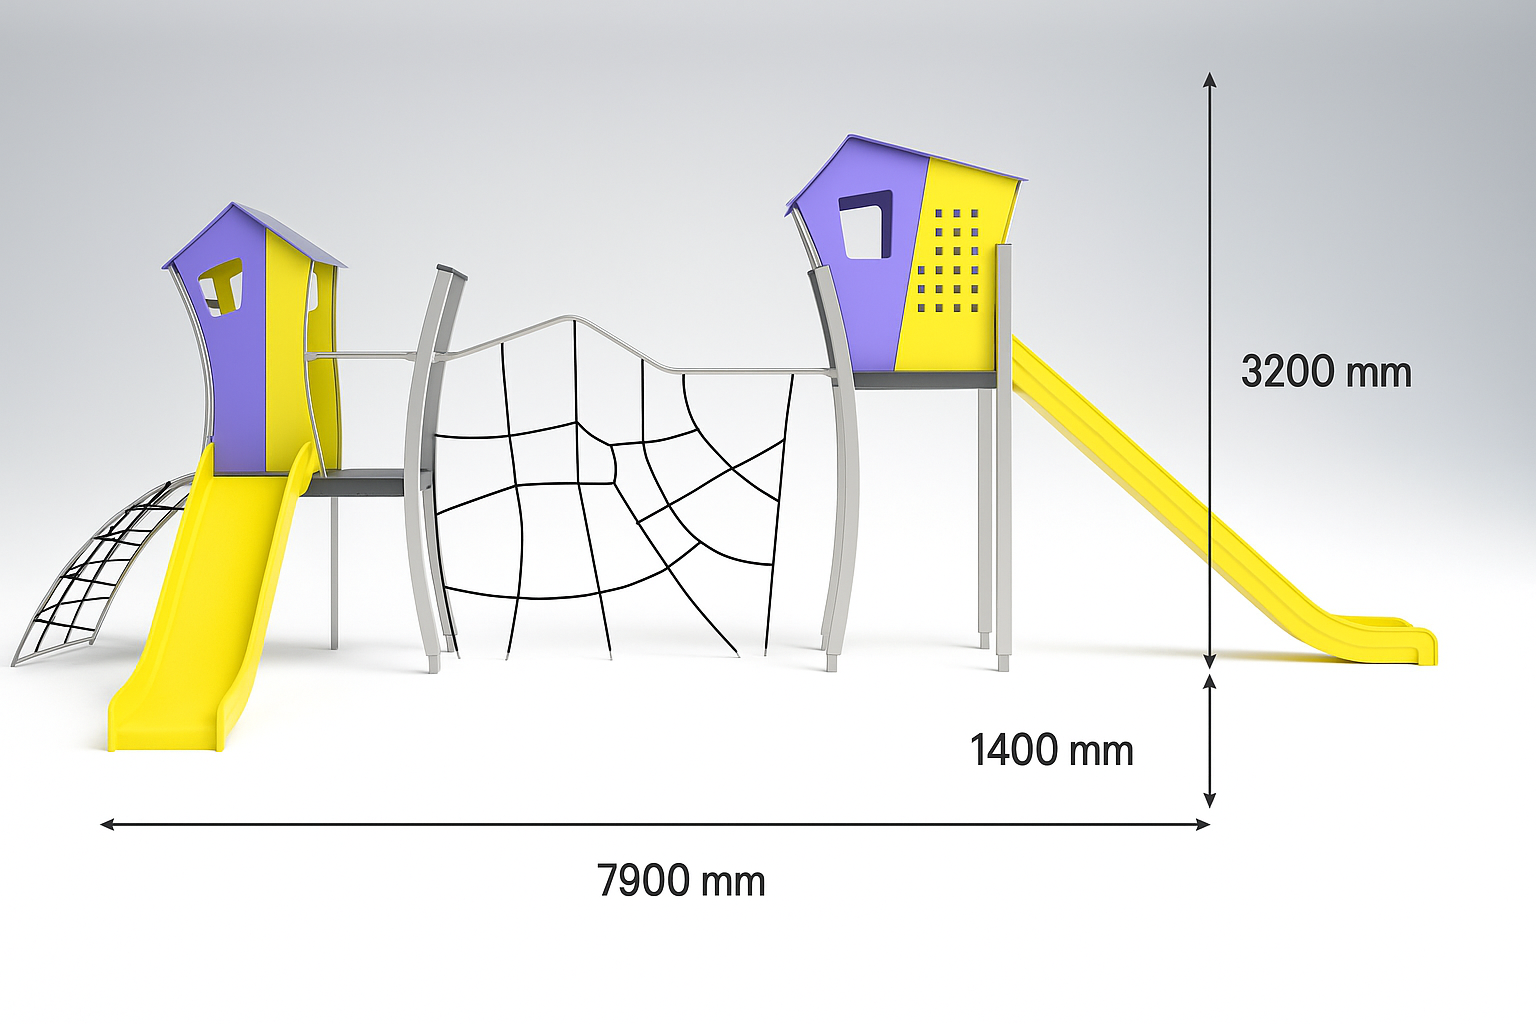
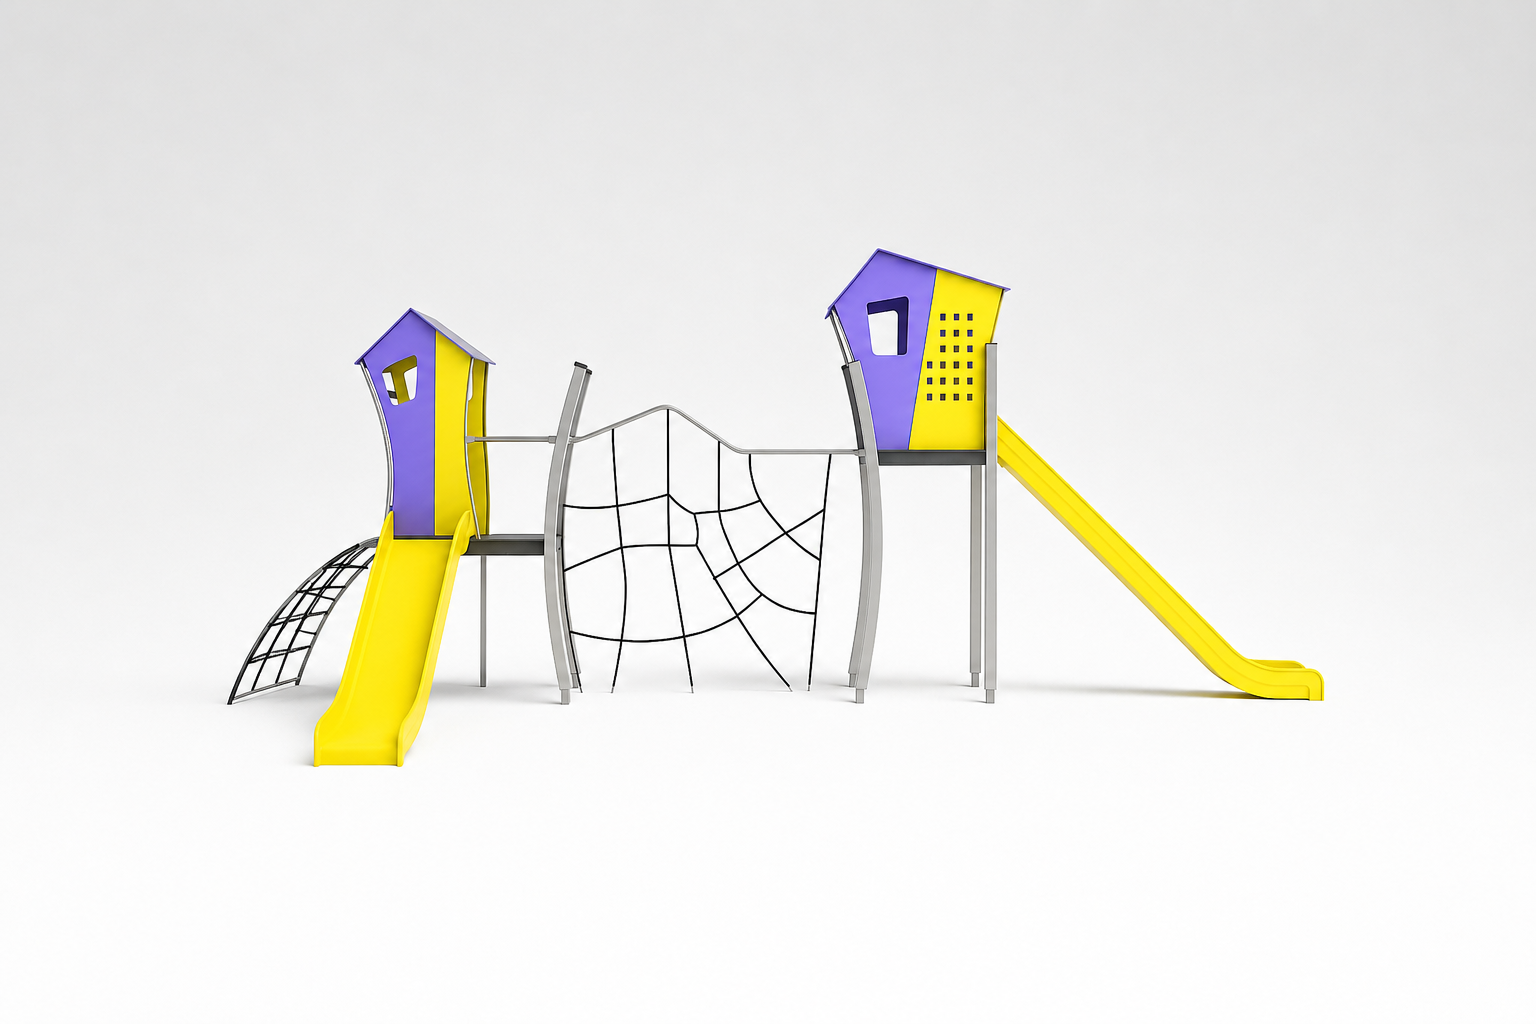
Añadir modelo Ksetas

diff --git a/boa-estructuras/app/parques-infantiles/metal/page.tsx b/boa-estructuras/app/parques-infantiles/metal/page.tsx
@@ -1,8 +1,8 @@
 const modelos = [
   {
-    nombre: "Ksetas",
-  imagen: "/fotos/metal/mod-ksetas/portada.png",
-  enlace: "/parques-infantiles/metal/mod-ksetas",
+      nombre: "Ksa Roco",
+    imagen: "/fotos/metal/mod-ksa-roco/portada.png",
+    enlace: "/parques-infantiles/metal/mod-ksa-roco",
   },
   {
     nombre: "TorreRoko",
@@ -10,9 +10,9 @@ const modelos = [
     enlace: "/parques-infantiles/metal/mod-torreroko",
   },
   {
-    nombre: "Metal 3",
-    imagen: "/fotos/metal/mod-metal3.png",
-    enlace: "#",
+    nombre: "Torreroko",
+    imagen: "/fotos/metal/mod-torreroko/portada.png",
+    enlace: "/parques-infantiles/metal/mod-torreroko",
   },
 ]
 